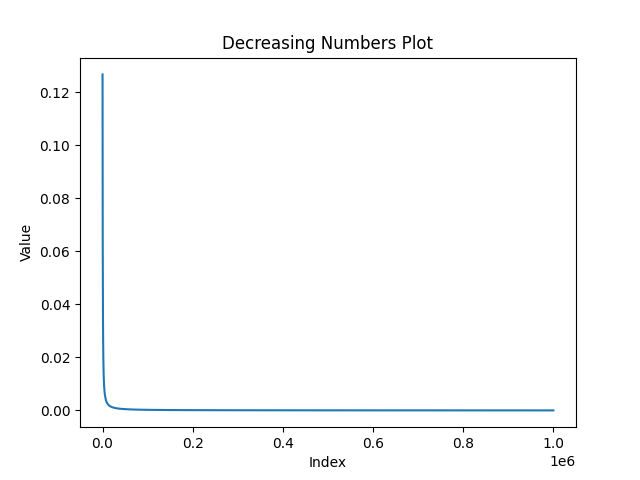
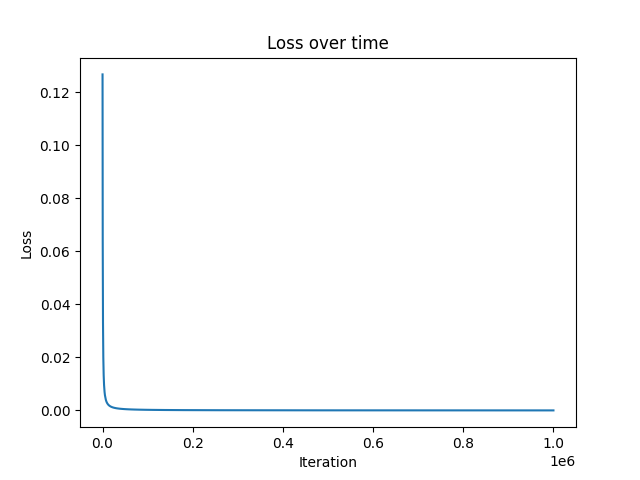
started work on XOR

Changed region(s): [[0.3438, 0.0625, 0.6875, 0.125], [0.4688, 0.9375, 0.5625, 0.9688], [0.0312, 0.4688, 0.0625, 0.5625]]

diff --git a/c/gates.c b/c/gates.c
@@ -5,15 +5,34 @@
 
 // timestamp 59:45
 
+typedef float sample[3];
+
+
 //OR Gate
-float train[][3] = {
+sample or_train[] = {
     {0,0,0},
     {0,1,1},
     {1,0,1},
     {1,1,1}
 };
 
-#define train_count (sizeof(train)/sizeof(train[0]))
+sample and_train[] = {
+    {0,0,0},
+    {0,1,0},
+    {1,0,0},
+    {1,1,1}
+};
+
+sample nand_train[] = {
+    {0,0,1},
+    {0,1,1},
+    {1,0,1},
+    {1,1,0}
+};
+
+sample *train = nand_train;
+size_t train_count = 4;
+//#define train_count (sizeof(train)/sizeof(train[0]))
 
 float sigmoidf(float x){
     return 1.f / (1.f + expf(-x));
@@ -61,12 +80,12 @@ int main(){
         w1 -= rate*dw1;
         w2 -= rate*dw2;
         b  -= rate*db;
-        printf("%f\n",c);
+        //printf("%f\n",c);
     }
     float c = cost(w1,w2, b);
     
 
-    /*
+    
     printf("w1=%f, w2=%f, b=%f, c=%f \n",w1,w2,b,c);
 
     for(size_t i = 0; i < 2; i++){
@@ -74,6 +93,6 @@ int main(){
             printf("%zu | %zu = %f\n", i, j, sigmoidf(i*w1 + j*w2 + b));
         }
     }
-    */
+    
     return 0;
 }

diff --git a/c/xor.c b/c/xor.c
@@ -1,0 +1,21 @@
+#include <stdio.h>
+//timestamp: 1 : 52 : 00
+typedef struct {
+    float or_w1;
+    float or_w2;
+    float or_b;
+
+    float nand_w1;
+    float nand_w2;
+    float nand_b;
+
+    float and_w1;
+    float and_w2;
+    float and_b;
+
+
+} Xor;
+
+float forward(Xor m, float x, float y){
+    float a = m.or_w1*x + m.or_w2*y + m.or_b;
+}

diff --git a/c/plot.py b/c/plot.py
@@ -6,8 +6,8 @@ with open("data.txt", "r") as file:
 #x = range(1, len(data) + 1)  # Generating x-values
 
 plt.plot(data ) # Creating the plot with markers
-plt.xlabel("Index")
-plt.ylabel("Value")
-plt.title("Decreasing Numbers Plot")
+plt.xlabel("Iteration")
+plt.ylabel("Loss")
+plt.title("Loss over time")
 
 plt.savefig("img/fig.png")
